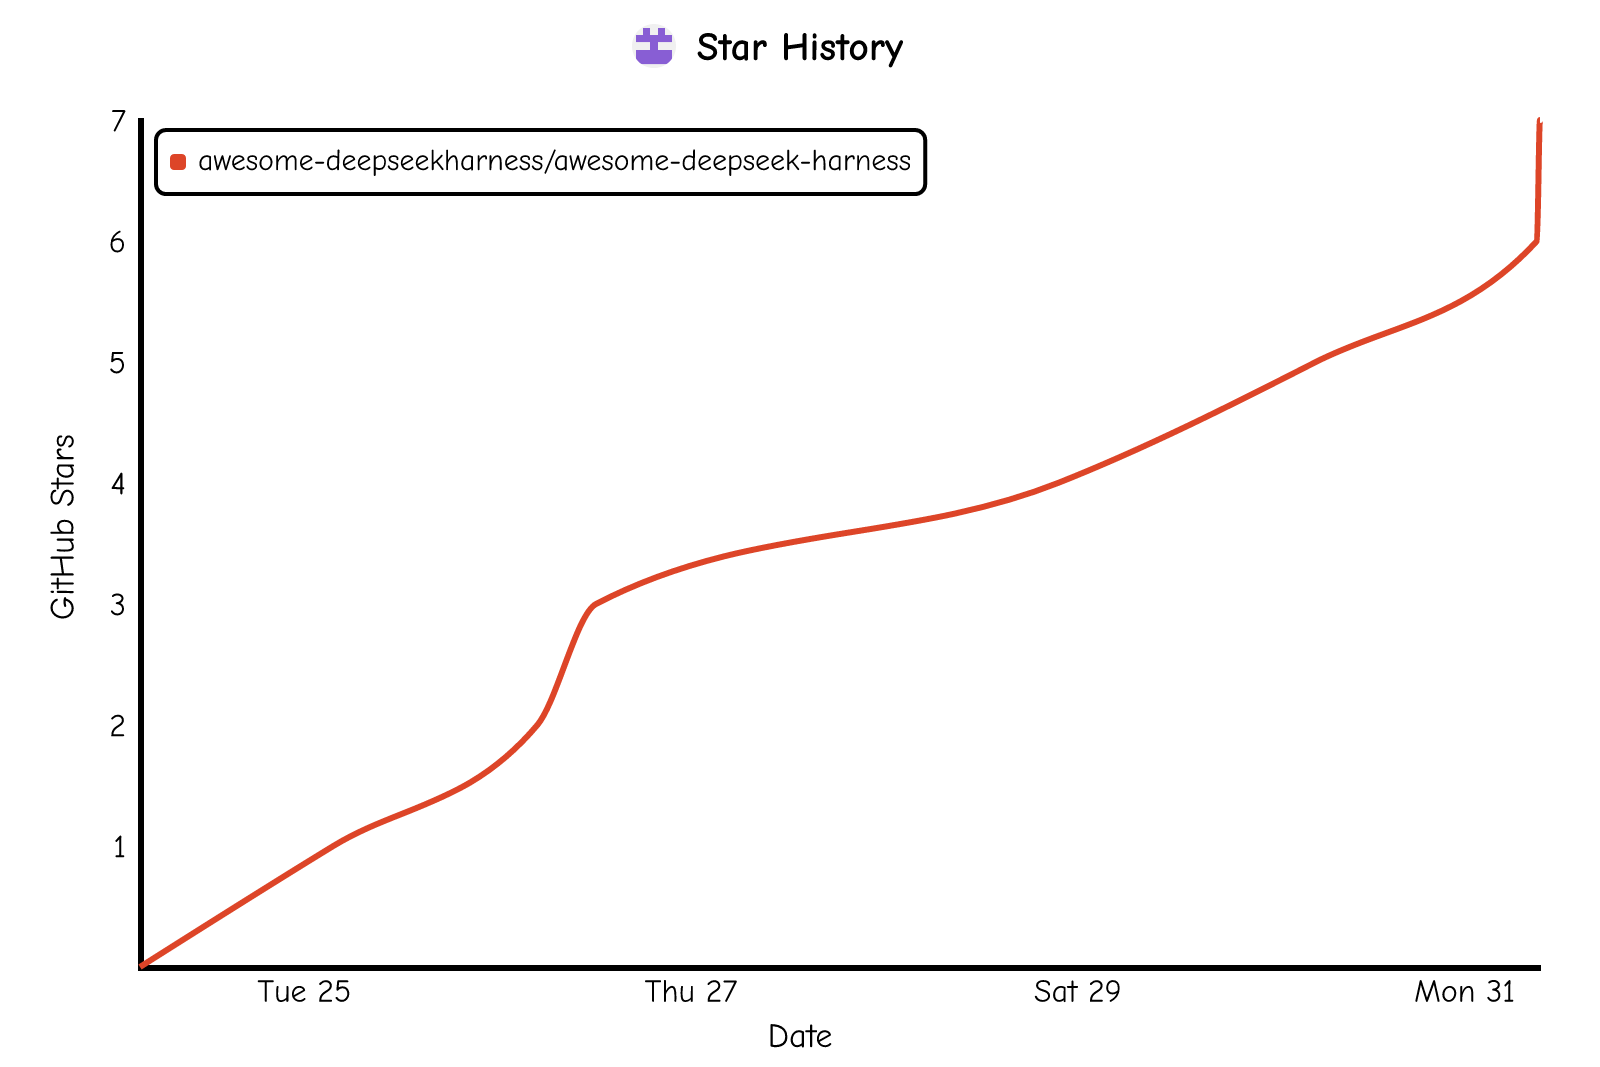
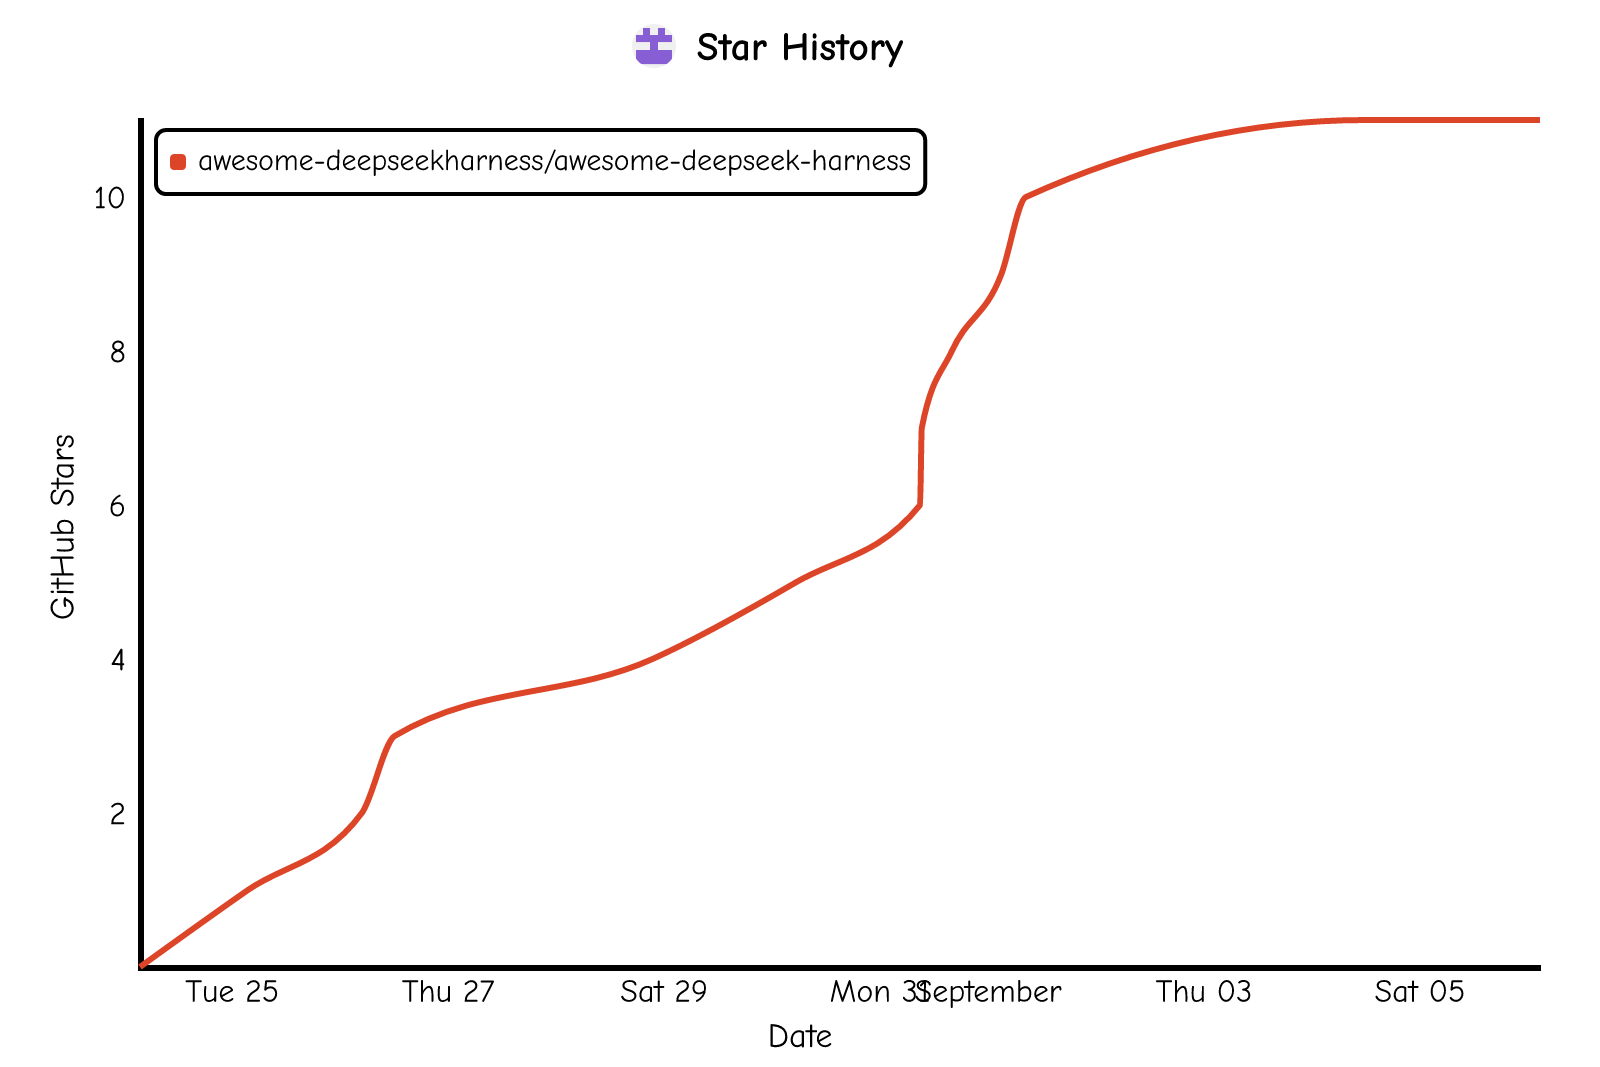
fix(ci): star-history via PR + triage safe base checkout (#84)
* fix(ci): star-history via PR (protected main) + triage safe base checkout for fork PRs

* chore: update star history (#85)

* fix(ci): prefer STAR_HISTORY_TOKEN PAT so bot PRs trigger curate checks

* fix(ci): star-history direct push again (protection relaxed to no-reviews/checks)

---------

diff --git a/README.zh.md b/README.zh.md
@@ -219,13 +219,12 @@ DeepSeek Harness 是 DeepSeek AI 开源的 agent harness。它的核心哲学是
 
 ## ⭐ Star 历史与社区增长
 
-<!-- star-history start -->
+<!-- star-history:start -->
 <picture>
   <source media="(prefers-color-scheme: dark)" srcset="assets/star-history/star-history-dark.svg">
-  <source media="(prefers-color-scheme: light)" srcset="assets/star-history/star-history-light.svg">
-  <img alt="Star History Chart" src="assets/star-history/star-history-light.svg" width="600">
+  <img alt="Star history" src="assets/star-history/star-history-light.svg">
 </picture>
-<!-- star-history end -->
+<!-- star-history:end -->
 
 > **社区势头：** 我们正朝 100 Stars 迈进，随着关注度提升，部分受关注的插件 *可能* 会在本列表/站点内获得置顶或额外曝光（例如小范围精选区），不做确定性承诺，仅作为社区偏好的参考以持续优化收录。[去 GitHub 点 Star](https://github.com/awesome-deepseekharness/awesome-deepseek-harness) · [关注 DeepSeek 官方](https://x.com/deepseek_ai) · [加入 Discord](https://discord.gg/Ycq5dCaS4)
 

diff --git a/README.md b/README.md
@@ -218,13 +218,12 @@ The hottest category — giving text-only models "eyes."
 
 ## ⭐ Star History & Community Growth
 
-<!-- star-history start -->
+<!-- star-history:start -->
 <picture>
   <source media="(prefers-color-scheme: dark)" srcset="assets/star-history/star-history-dark.svg">
-  <source media="(prefers-color-scheme: light)" srcset="assets/star-history/star-history-light.svg">
-  <img alt="Star History Chart" src="assets/star-history/star-history-light.svg" width="600">
+  <img alt="Star history" src="assets/star-history/star-history-light.svg">
 </picture>
-<!-- star-history end -->
+<!-- star-history:end -->
 
 > **Community momentum:** As we approach 100 stars, popular or noteworthy plugins *may* be highlighted or pinned within this list and its site (e.g., a small featured area) — no guarantees, just a way for us to gauge what the community values and keep the list fresh. [Star on GitHub](https://github.com/awesome-deepseekharness/awesome-deepseek-harness) · [Follow @deepseek_ai on X](https://x.com/deepseek_ai) · [Join Discord](https://discord.gg/Ycq5dCaS4)
 
